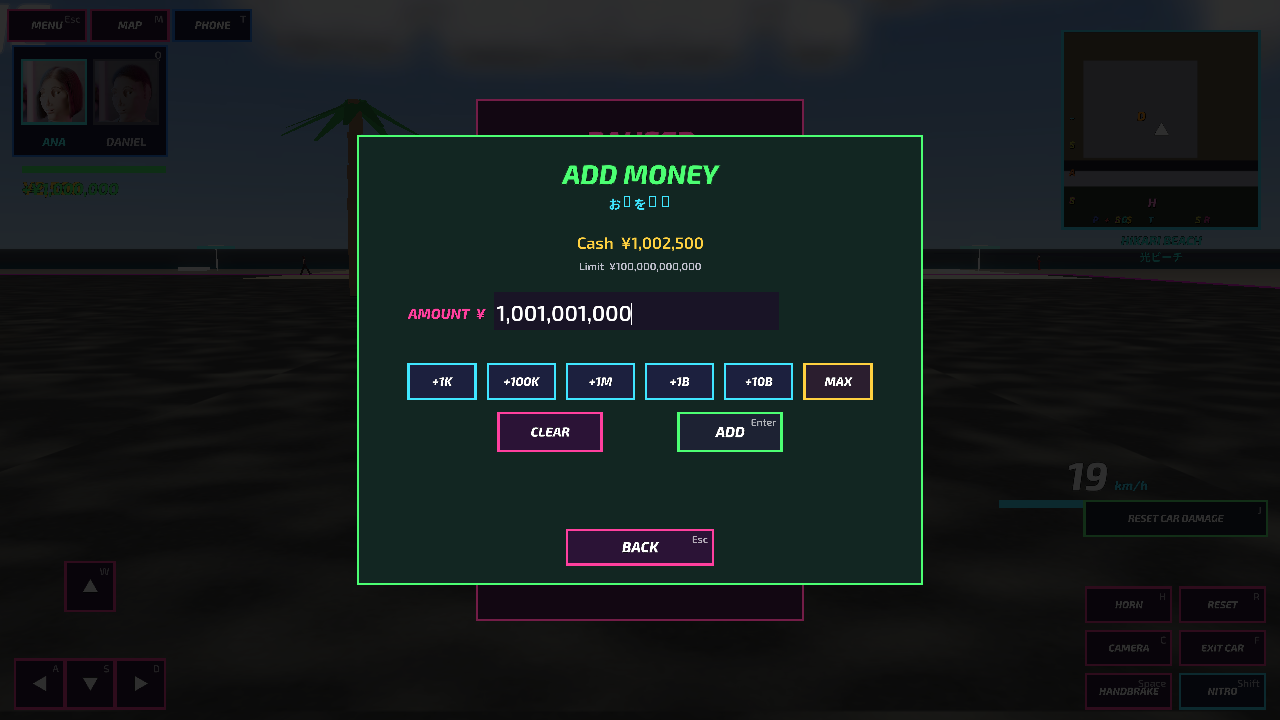
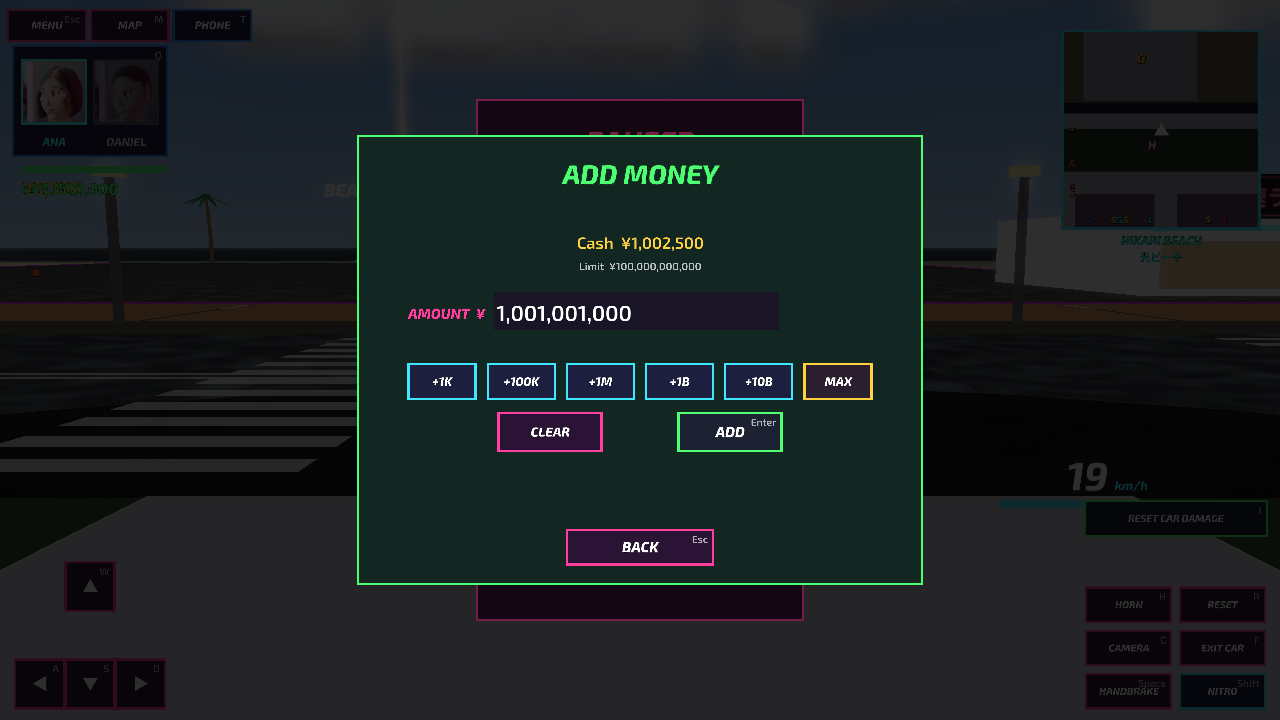
v1.0.2 screenshots from the built exe (Wine)

diff --git a/fireout_shine.py b/fireout_shine.py
@@ -551,7 +551,7 @@ class App(ShowBase):
             m = self.money_ui; m.ent.enterText(t); m.do_add(); L("add", repr(t), "->", m.msg["text"], "cash", self.game.cash)
         steps = [
             (7.0, lambda: (self.show_title(), )), (1.0, self.show_menu), (1.0, lambda: self.start_game(None)),
-            (10.0, lambda: self.game.enter_car(self.game.own)), (1.0, drive), (2.0, lambda: self.game.toggle_phone()),
+            (10.0, lambda: setattr(self.game, "intro_t", 0.01)), (1.0, lambda: self.game.enter_car(self.game.own)), (1.0, drive), (2.0, lambda: (L("phone pcar", self.game.pcar is not None), self.game.toggle_phone(), L("phone open", self.game.phone is not None))),
             (1.5, lambda: shot("phone_driving_v102")), (0.2, lambda: (self.game.vb.clear(), self.game.toggle_phone())),
             (1.5, self.show_pause), (0.6, lambda: shot("pause_menu_v102")), (0.3, self.show_add_money),
             (0.3, lambda: [m_try(t) for t in ("-5", "abc", "0", "", "1,000,000")]),
